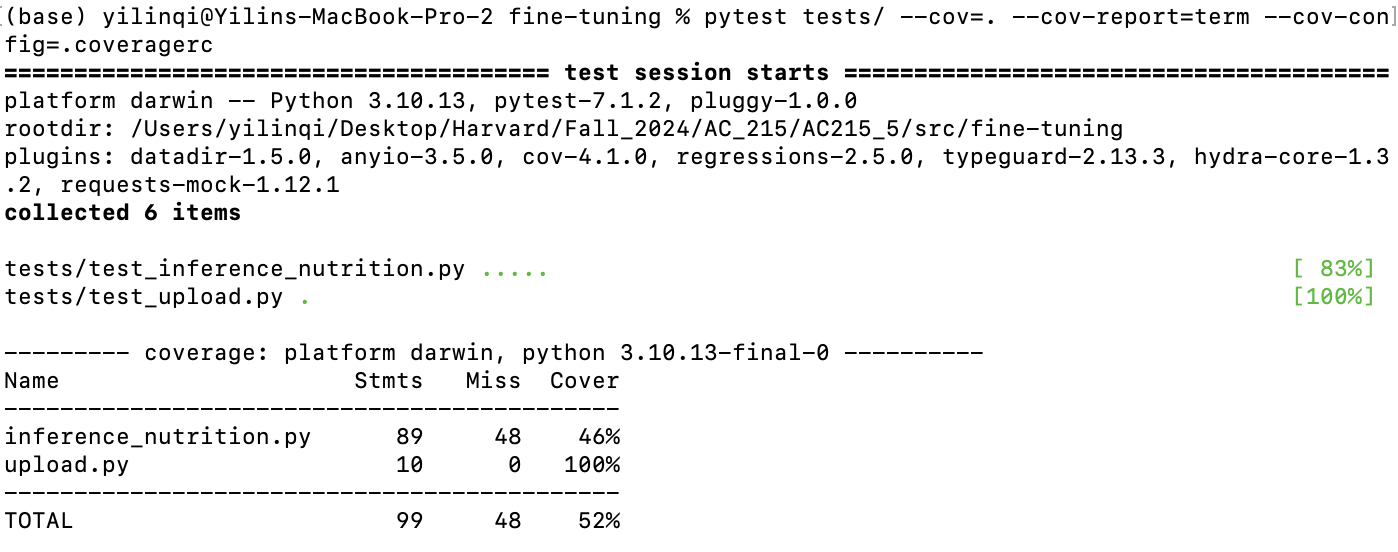
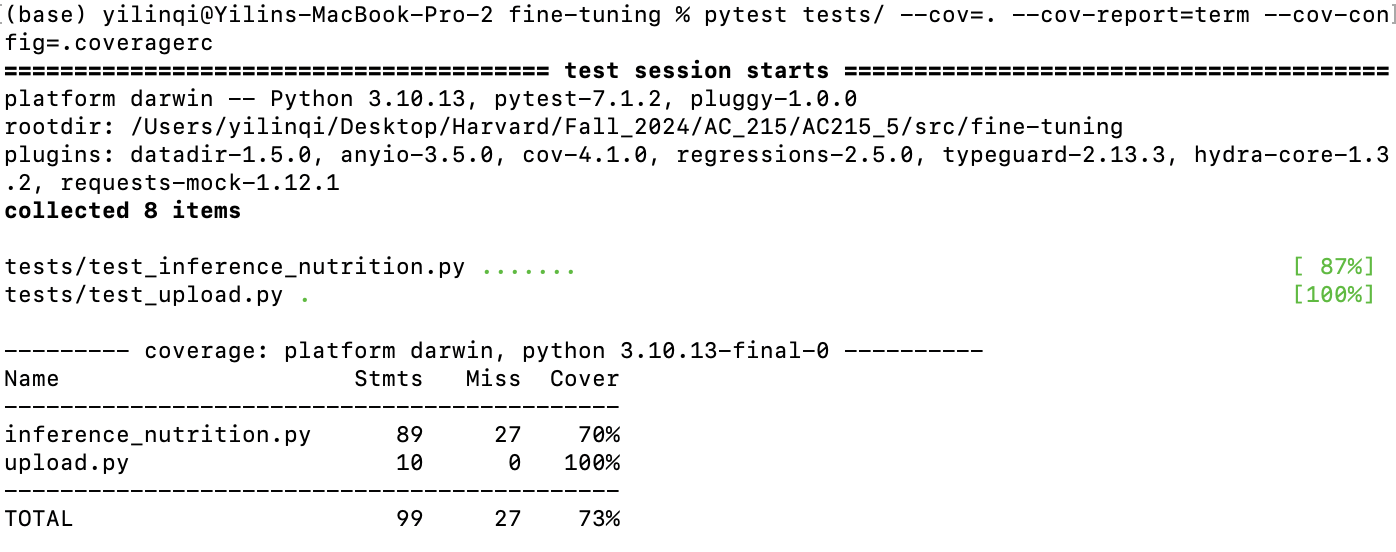
/+flake fixing for test scripts

diff --git a/src/fine-tuning/tests/test_inference_nutrition.py b/src/fine-tuning/tests/test_inference_nutrition.py
@@ -1,13 +1,19 @@
-import pytest
-from unittest import mock
-from io import StringIO
+#!/usr/bin/env python3
+
+# Copyright (c) Facebook, Inc. and its affiliates.
+# This source code is licensed under the MIT license found in the
+# LICENSE file in the root directory of this source tree.
+
 import sys
 import os
 
-path_to_src = os.path.abspath(os.path.join(os.path.dirname(__file__), '../'))
+path_to_src = os.path.abspath(os.path.join(os.path.dirname(__file__), "../"))
 sys.path.insert(0, path_to_src)
 
-from inference_nutrition import (
+import pytest  # noqa: E402
+from unittest import mock  # noqa: E402
+
+from inference_nutrition import (  # noqa: E402
     generate_recipe,
     save_recipe_to_text,
     get_nutrition_info,
@@ -16,11 +22,15 @@ from inference_nutrition import (
     upload_to_gcs,
 )
 
+
 # Mocking the storage client
 @pytest.fixture
 def mock_storage_client():
-    with mock.patch('inference_nutrition.storage.Client', autospec=True) as mock_client:
+    with mock.patch(
+        "inference_nutrition.storage.Client", autospec=True
+    ) as mock_client:
         yield mock_client
+
 
 def test_generate_recipe_empty_prompt():
     mock_model = mock.Mock()
@@ -29,7 +39,7 @@ def test_generate_recipe_empty_prompt():
     # mock return value that behaves like the actual return of tokenizer()
     mock_inputs = mock.Mock()
     mock_inputs.input_ids = [0]
-    
+
     # set the return value of the tokenizer to the mock object
     mock_tokenizer.return_value = mock_inputs
     mock_model.generate.return_value = [[0, 1, 2, 3]]
@@ -40,25 +50,29 @@ def test_generate_recipe_empty_prompt():
 
     assert result == "Generated text"
 
+
 @mock.patch("builtins.open", side_effect=IOError("File error"))
 def test_save_recipe_to_text_file_error(mock_open):
     with pytest.raises(IOError, match="File error"):
         save_recipe_to_text("Test recipe", "invalid_path.txt")
 
-@mock.patch('inference_nutrition.requests.get')
+
+@mock.patch("inference_nutrition.requests.get")
 def test_get_nutrition_info_api_failure(mock_get):
     mock_get.return_value.status_code = 500
     nutrition_info = get_nutrition_info(["tomato"])
     # expect an empty result on failure
     assert nutrition_info == {}
 
-@mock.patch('inference_nutrition.requests.get')
+
+@mock.patch("inference_nutrition.requests.get")
 def test_get_nutrition_info_no_foods(mock_get):
     mock_get.return_value.status_code = 200
     mock_get.return_value.json.return_value = {"foods": []}
     nutrition_info = get_nutrition_info(["unknown_ingredient"])
     # expect empty result for unknown ingredients
     assert nutrition_info == {}
+
 
 def test_aggregate_nutrition_info_with_missing_serving_size():
     input_data = {
@@ -74,3 +88,49 @@ def test_aggregate_nutrition_info_with_missing_serving_size():
     result = aggregate_nutrition_info_with_units(input_data)
     # expect an empty result if serving size is missing
     assert result == {}
+
+
+@mock.patch("builtins.open", new_callable=mock.mock_open)
+def test_save_nutrition_label_as_text(mock_open):
+    nutrition_data = {
+        "Energy": {"value": 200, "unit": "kcal"},
+        "Protein": {"value": 10, "unit": "g"},
+        "Carbohydrates": {"value": 30, "unit": "g"}
+    }
+    test_file_path = "test_nutrition.txt"
+    save_nutrition_label_as_text(nutrition_data, test_file_path)
+
+    mock_open.assert_called_once_with(test_file_path, "w")
+    handle = mock_open()
+
+    print("Actual written content:")
+    for call in handle.write.call_args_list:
+        print(call)
+
+    written_content = "".join(
+        call.args[0] for call in handle.write.call_args_list)
+    assert (
+        "Nutrition Facts for Your Recipe (Serving Size: 100g)"
+        in written_content
+    )
+    assert "Calories" in written_content
+    assert "200.00 kcal" in written_content
+    assert "Protein" in written_content
+    assert "10.00          g" in written_content
+
+
+@mock.patch("inference_nutrition.storage.Client", autospec=True)
+def test_upload_to_gcs(mock_storage_client):
+    mock_client_instance = mock_storage_client.return_value
+    mock_bucket = mock_client_instance.bucket.return_value
+    mock_blob = mock_bucket.blob.return_value
+
+    bucket_name = "test-bucket"
+    source_file_name = "test_file.txt"
+    destination_blob_name = "path/to/test_file.txt"
+
+    upload_to_gcs(bucket_name, source_file_name, destination_blob_name)
+    mock_storage_client.assert_called_once()
+    mock_client_instance.bucket.assert_called_once_with(bucket_name)
+    mock_bucket.blob.assert_called_once_with(destination_blob_name)
+    mock_blob.upload_from_filename.assert_called_once_with(source_file_name)

diff --git a/src/fine-tuning/tests/test_upload.py b/src/fine-tuning/tests/test_upload.py
@@ -1,27 +1,42 @@
+#!/usr/bin/env python3
+
+# Copyright (c) Facebook, Inc. and its affiliates.
+# This source code is licensed under the MIT license found in the
+# LICENSE file in the root directory of this source tree.
+
+from upload import upload_weights_to_gcs
 import pytest
 from unittest import mock
 import sys
 import os
-path_to_src = os.path.abspath(os.path.join(os.path.dirname(__file__), '../'))
+
+path_to_src = os.path.abspath(os.path.join(os.path.dirname(__file__), "../"))
 print(f"Adding path to sys.path: {path_to_src}")
 sys.path.insert(0, path_to_src)
 
-from upload import upload_weights_to_gcs
+
 @pytest.fixture(autouse=True)
 def mock_google_cloud_client():
-    with mock.patch('upload.storage.Client', autospec=True) as mock_client:
+    with mock.patch("upload.storage.Client", autospec=True) as mock_client:
         yield mock_client
+
 
 @pytest.fixture(autouse=True)
 def mock_env_var():
     # mock the environment variable
-    with mock.patch.dict('os.environ', {"GOOGLE_APPLICATION_CREDENTIALS": "/mock/path/to/recipe.json"}, clear=True):
+    with mock.patch.dict(
+        "os.environ",
+        {"GOOGLE_APPLICATION_CREDENTIALS": "/mock/path/to/recipe.json"},
+        clear=True,
+    ):
         yield
+
 
 @pytest.fixture
 def mock_print():
-    with mock.patch('builtins.print') as mocked_print:
+    with mock.patch("builtins.print") as mocked_print:
         yield mocked_print
+
 
 def test_upload_weights_to_gcs(mock_google_cloud_client, mock_print):
     # set up mock objects
@@ -35,7 +50,7 @@ def test_upload_weights_to_gcs(mock_google_cloud_client, mock_print):
     source_file = "/path/to/mock_model.safetensors"
     destination_blob_name = "mock_model/model.safetensors"
     bucket_name = "test-bucket"
-    
+
     upload_weights_to_gcs(bucket_name, source_file, destination_blob_name)
 
     mock_google_cloud_client.assert_called_once()
